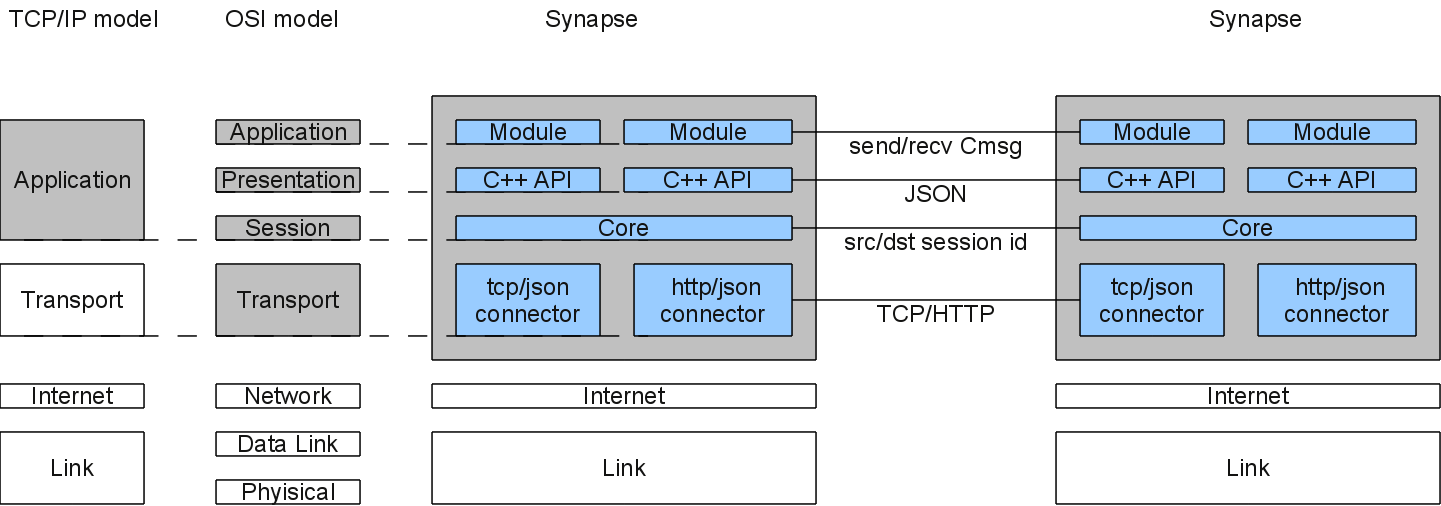
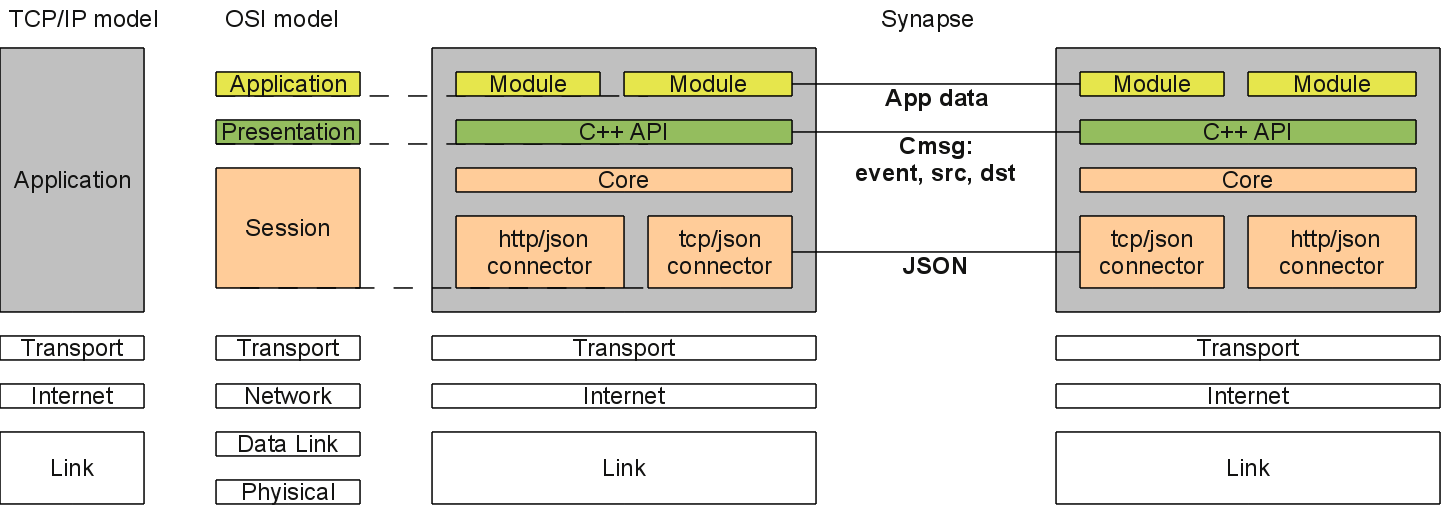
made the drawing more clear. move transport out of application
git-svn-id: https://open.syn3.nl/syn3/svndav/default/trunk/projects/synapse@437 99606f1f-bbb2-4562-8e6b-387ddef1dc61

diff --git a/modules/conn_json.module/module.cpp b/modules/conn_json.module/module.cpp
@@ -2,7 +2,7 @@
 #include "synapse.h"
 #include <boost/thread/condition.hpp>
 
-
+//TODO: implement queueing, so we can handle disconnect+reconnects (with a fallback option if a message is missed: this will just end all the sessions like currently happens)
 
 
 #define MAX_MESSAGE 2048
